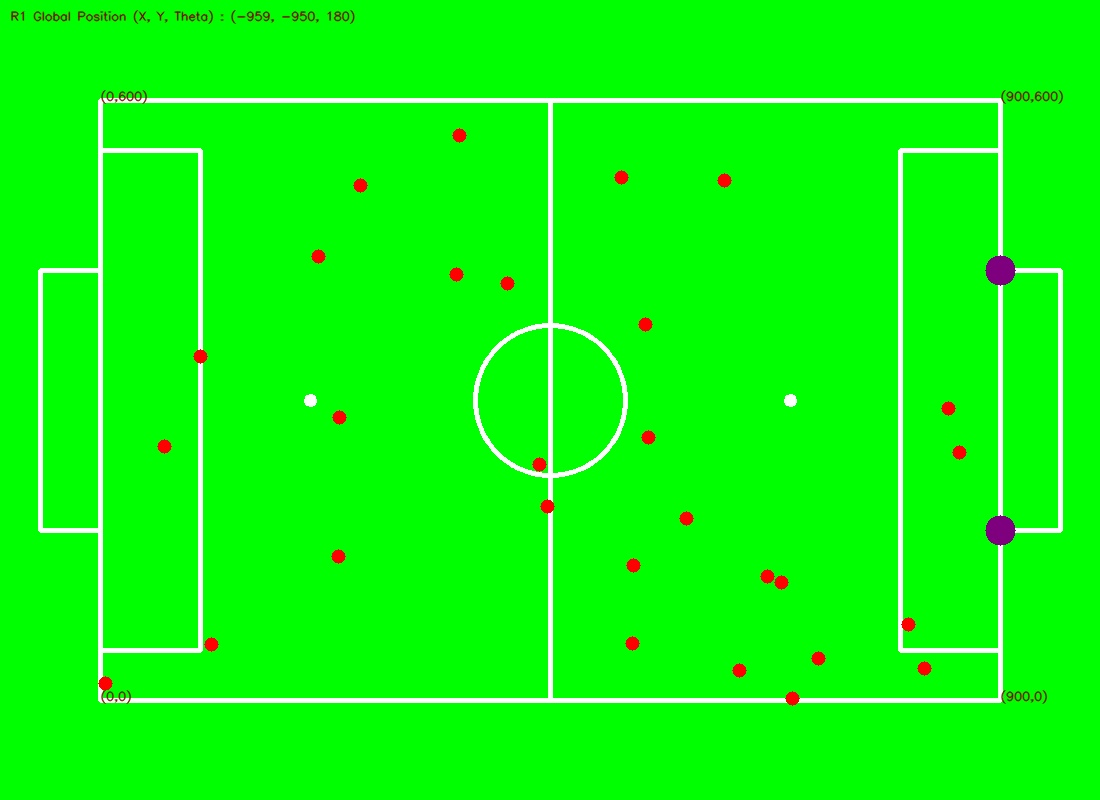
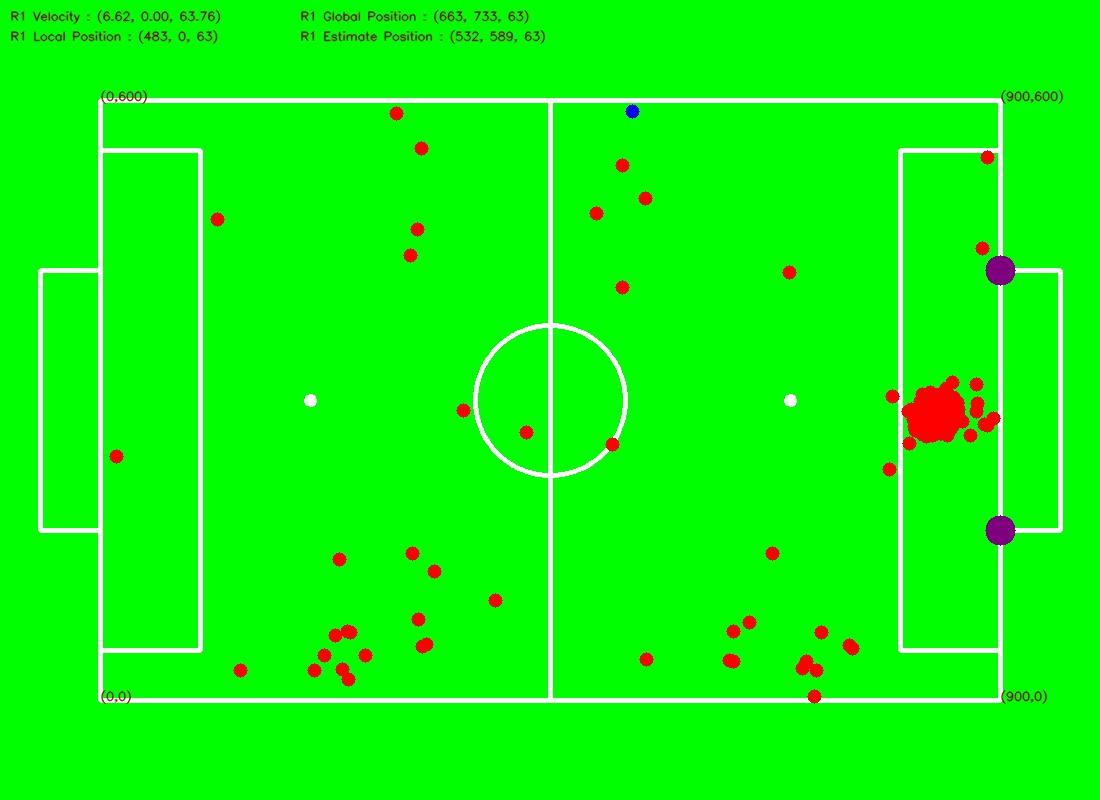
motion model x dan y sudah oke, tinggal yg alpha

diff --git a/Source-Code/BarelangFC-Particle-Filter-Sim.py b/Source-Code/BarelangFC-Particle-Filter-Sim.py
@@ -14,6 +14,7 @@ import webbrowser
 from time import sleep
 import time
 from scipy.spatial import distance
+import os
 
 # Main configuration
 UDP_IP = "127.0.0.1"
@@ -24,10 +25,14 @@ fieldLength = 900
 fieldWidth = 600
 totalParticles = 300
 totalLandmarks = 2
+deltaTime = 1
+
+mapImage = np.zeros((800,1100,3), np.uint8)
 
 # Global Variable
 # Robot position 1D array
 robotGlobalPosition = np.zeros((3))
+robotInitialPosition = np.zeros((3))
 robotLocalPosition = np.zeros((3))
 
 # Estimate position
@@ -40,6 +45,13 @@ particlesLocalPosition = np.zeros((totalParticles, 3))
 distanceRobotToLandmarks = np.zeros((totalLandmarks))
 distanceParticlesToLandmarks = np.zeros((totalParticles, totalLandmarks))
 particlesWeight= np.zeros((totalParticles))
+
+velFromKinematic = np.zeros((3))
+
+# Simualte velocity value
+# X Y alpha velocity command from robot
+realVelocity = np.zeros([3])
+ 
 
 # Flask Webserver
 ##############################################################################
@@ -79,6 +91,7 @@ def video_feed():
 # Convert robot velocity to cm/s
 # Loaded from calibrated value
 def convertVel(robotId, inputVel):
+    # print 'Input Vel', inputVel
     outputVel = np.zeros((3))
     if robotId == 1:
         if inputVel[0] == 0:
@@ -95,7 +108,6 @@ def convertVel(robotId, inputVel):
             outputVel[2] = 0
         else:
             outputVel[2] = 124.78 * inputVel[2] + 1.366
-
     return outputVel
 
 def worldCoorToImageCoor(x, y):
@@ -108,14 +120,19 @@ def main():
     robotGlobalPosition[0] = uniform(0, fieldLength)
     robotGlobalPosition[1] = uniform(0, fieldWidth)
     robotGlobalPosition[2] = uniform(0, 360)
+    
     # Set initial location of robot
-    robotGlobalPosition[0] = 900
+    robotInitialPosition[0] = 450
+    robotInitialPosition[1] = 300
+    robotInitialPosition[2] = 0 # Heading
+
+    robotGlobalPosition[0] = 0
     robotGlobalPosition[1] = 0
-    robotGlobalPosition[2] = 180 # Heading
+    robotGlobalPosition[2] = 0 # Heading
 
     robotLocalPosition[0] = 0
     robotLocalPosition[1] = 0
-    robotLocalPosition[2] = robotGlobalPosition[2] # Heading
+    robotLocalPosition[2] = 0 # Heading
 
     # Initialize landmark position
     landmarksPosition[:, 0] = uniform(0, fieldLength, size=totalLandmarks)
@@ -126,12 +143,10 @@ def main():
     landmarksPosition[0,1] = 170
     landmarksPosition[1,0] = 900
     landmarksPosition[1,1] = 430
-    
-    # print 'BarelangFC - Particle Filter Robot Localization'
-    # print 'Landmark position :'
-    # print landmarksPosition
-    # print 'Initial robot position :'
-    # print robotPosition
+  
+    velFromKinematic[0] = 0.02
+    velFromKinematic[1] = 0.00
+    velFromKinematic[2] = 0.5
 
     # Create random position of particles
     # print 'Process ==> Create random particles'
@@ -144,24 +159,6 @@ def main():
     particlesLocalPosition[:,2] = particlesGlobalPosition[:, 2]
     # print 'Particles position :'
     # print particlesGlobalPosition
-
-    mapImage = np.zeros((800,1100,3), np.uint8)
-    
-    # Simualte velocity value
-    # X Y alpha velocity command from robot
-    realVelocity = np.empty([3], dtype=int)
-    # Loop every 1 second
-    deltaTime = 1 
-
-    # plt.show()    
-    # axes = plt.gca()
-    # axes.set_xlim(0, 900)
-    # axes.set_ylim(0, 600)
-    # plt.title('Barelang FC - Particle Filter Simulation')
-    # particlesData, = axes.plot(particlesGlobalPosition[:,0], particlesGlobalPosition[:,1], 'ro')
-    # robotPosData, = axes.plot(robotPosition[0], robotPosition[1], 'ro', color='g')
-    # estimatePosData, = axes.plot(estimatePosition[0], estimatePosition[1], 'ro', color='b')
-    # landmarksPosData, = axes.plot(landmarksPosition[:,0], landmarksPosition[:,1], 'ro', color='y')
 
     # Create UDP client to receive data from kinematic
     # try:
@@ -195,7 +192,6 @@ def main():
             cv2.circle(mapImage,(310,400), 3, (255,255,255), 5)
             cv2.circle(mapImage,(790,400), 3, (255,255,255), 5)
 
-            # Gambar titik 0,0
             textLine = "(0,0)"
             x, y = worldCoorToImageCoor(0,0)
             cv2.putText(mapImage, textLine, (x, y), cv2.FONT_HERSHEY_SIMPLEX, 0.4, (0, 0, 127), 1, cv2.LINE_AA)
@@ -217,7 +213,6 @@ def main():
                 for i in range(totalLandmarks):
                     x, y = worldCoorToImageCoor(int(landmarksPosition[i,0]), int(landmarksPosition[i,1]))
                     cv2.circle(mapImage,(x, y), 15, (127,0,127), -1)
-
             
             # cv2.imwrite("mapImage.jpg", mapImage)
             # break
@@ -225,28 +220,16 @@ def main():
             # # Get data from kinematic
             # data, _ = sock.recvfrom(1024) # buffer size is 1024 bytes
             # # print "Vel Input : ", data
-            velFromKinematic = np.zeros((3))
+            
             # strVelFromKinematic = data.split(",")
             # velFromKinematic[0] = float(strVelFromKinematic[0])
             # velFromKinematic[1] = float(strVelFromKinematic[1])
             # velFromKinematic[2] = float(strVelFromKinematic[2])
 
-            velFromKinematic[0] = 0.02
-            velFromKinematic[1] = 0.00
-            velFromKinematic[2] = 0.00
-
-            # print "Input Vel : ", velFromKinematic
-
-            # X = 5, Y = 0, alpha = 0
-            # realVelocity[0] = 10 
-            # realVelocity[1] = 0 
-            # realVelocity[2] = 0 
-
-            # Nanti diganti nama jadi real velocity
-            realVelocity = convertVel(robotID, velFromKinematic)
-            print "Real Velocity : ", realVelocity
+            realVelocity[:] = convertVel(robotID, velFromKinematic)
+            # print "Kinematic Velocity : ", velFromKinematic
+            # print "Real Velocity : ", realVelocity
             # Simulate robot movement
-            # if robotLocalPosition[0] >= 0 and robotLocalPosition[0] < fieldLength and robotLocalPosition[1] >= 0 and robotLocalPosition[1] < fieldWidth:
             robotLocalPosition[0] += realVelocity[0] * deltaTime
             robotLocalPosition[1] += realVelocity[1] * deltaTime
             robotLocalPosition[2] += realVelocity[2] * deltaTime
@@ -255,22 +238,25 @@ def main():
                 robotLocalPosition[2] = 0
             if robotLocalPosition[2] < 0:
                 robotLocalPosition[2] = 359
-            print 'R Local Pos : ', robotLocalPosition
+            # print 'R Local Pos : ', robotLocalPosition
 
             # Create matrix rotation
-            theta = np.radians(robotLocalPosition[2])
+            angle = robotInitialPosition[2] + robotLocalPosition[2]
+            # motion model heading
+            if angle >= 360:
+                angle = 0
+            if angle < 0:
+                angle = 359
+            theta = np.radians(angle)
             c, s = np.cos(theta), np.sin(theta)
             R = np.array(((c,-s), (s, c)))
             # Multiply rotation matrix with robot local position x dan y
             npOutMatMul = np.matmul(R, robotLocalPosition[:2]) 
-            # print npOutMatMul
+            robotGlobalPosition[0] = npOutMatMul[0] + robotInitialPosition[0]
+            robotGlobalPosition[1] = npOutMatMul[1] + robotInitialPosition[1]
+            robotGlobalPosition[2] = angle
 
-            # if robotGlobalPosition[0] >= 0 and robotGlobalPosition[0] < fieldLength and robotGlobalPosition[1] >= 0 and robotGlobalPosition[1] < fieldWidth:
-            robotGlobalPosition[0] += npOutMatMul[0]
-            robotGlobalPosition[1] += npOutMatMul[1]
-            robotGlobalPosition[2] = robotLocalPosition[2]
-
-            print 'R Global Pos : ', robotGlobalPosition
+            # print 'R Global Pos : ', robotGlobalPosition
 
             # Predict movement of particles
             # print 'Process ==> Predict movement of particles'
@@ -350,7 +336,7 @@ def main():
                 estimatePosition[0] = -888
                 estimatePosition[1] = -888
                 estimatePosition[2] = -888
-            print estimatePosition
+            # print estimatePosition
             
             drawParticles = True
             if drawParticles == True:
@@ -371,8 +357,17 @@ def main():
                 except:
                     pass
 
-            textLine = "R{} Global Position (X, Y, Theta) : ({}, {}, {})".format(robotID, int(estimatePosition[0]), int(estimatePosition[1]), int(estimatePosition[2]))
+            textLine = "R%d Velocity : (%.2f, %.2f, %.2f)"%(robotID, realVelocity[0], realVelocity[1], realVelocity[2])
             cv2.putText(mapImage, textLine, (10,20), cv2.FONT_HERSHEY_SIMPLEX, 0.4, (0, 0, 127), 1, cv2.LINE_AA)
+
+            textLine = "R{} Local Position : ({}, {}, {})".format(robotID, int(robotLocalPosition[0]), int(robotLocalPosition[1]), int(robotLocalPosition[2]))
+            cv2.putText(mapImage, textLine, (10,40), cv2.FONT_HERSHEY_SIMPLEX, 0.4, (0, 0, 127), 1, cv2.LINE_AA)
+
+            textLine = "R{} Global Position : ({}, {}, {})".format(robotID, int(robotGlobalPosition[0]), int(robotGlobalPosition[1]), int(robotGlobalPosition[2]))
+            cv2.putText(mapImage, textLine, (300,20), cv2.FONT_HERSHEY_SIMPLEX, 0.4, (0, 0, 127), 1, cv2.LINE_AA)
+
+            textLine = "R{} Estimate Position : ({}, {}, {})".format(robotID, int(estimatePosition[0]), int(estimatePosition[1]), int(estimatePosition[2]))
+            cv2.putText(mapImage, textLine, (300,40), cv2.FONT_HERSHEY_SIMPLEX, 0.4, (0, 0, 127), 1, cv2.LINE_AA)
 
             # Enable GUI Streaming
             showGUI = False
@@ -427,6 +422,14 @@ def main():
 if __name__ == "__main__":
     print 'Running BarelangFC - MCL Localization'
     url = "http://127.0.0.1:8888"
-    webbrowser.get(using='chromium-browser').open(url)
+    # print 'OS Name : ', os.name
+    # Run in Windows
+    if (os.name == "nt"):
+        chromedir= 'C:/Program Files (x86)/Google/Chrome/Application/chrome.exe %s'
+        webbrowser.get(chromedir).open(url)
+    else:
+        # print "unknown OS"
+        webbrowser.get(using='chromium-browser').open(url)
+    
     app.run(host='127.0.0.1', port=8888, debug=False, threaded=True)
     
